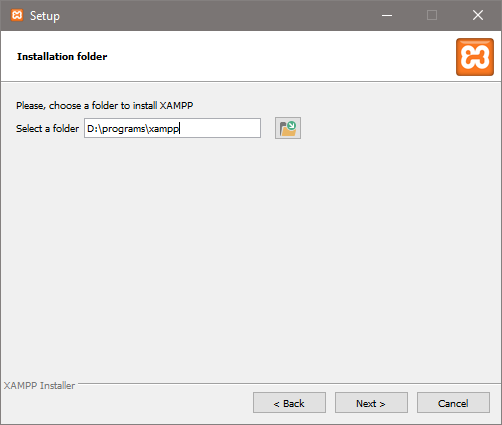
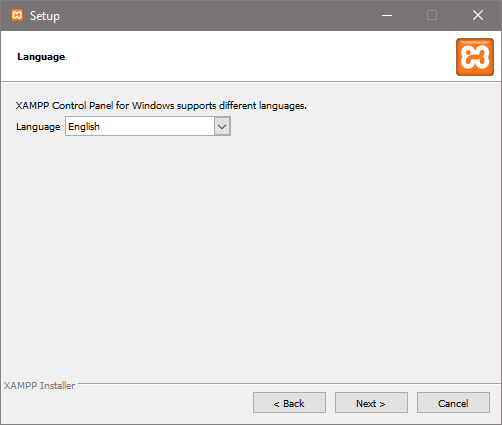
XAMPP instalation described

Changed region(s): [[0.0299, 0.2141, 0.6275, 0.3365], [0.0299, 0.1224, 0.2092, 0.1529]]

diff --git a/src/components/tools/xampp/content/Instalation.tsx b/src/components/tools/xampp/content/Instalation.tsx
@@ -1,0 +1,88 @@
+import Presentation from "../../../utils/presentation/Presentation";
+import Title from "../../../utils/title/Title";
+
+function Instalation() {
+  const slides = [
+    {
+      imagePath: "/xampp/instalation/1.png",
+      description: "1. Podemos ignorar este mensaje, de momento, no es algo que nos preocupe."
+    },
+    {
+      imagePath: "/xampp/instalation/2.png",
+      description: "2. Siguiente."
+    },
+    {
+      imagePath: "/xampp/instalation/3.png",
+      description: "3. No es necesario tener todo seleccionado, solo necesitas el combo AMPP:",
+      note: "Apache Mysql Php Phpmyadmin"
+    },
+    {
+      imagePath: "/xampp/instalation/4.png",
+      description: "4. Puedes instalar XAMPP en la ruta que desees.",
+      note: "no olvides dónde lo estás instalando"
+    },
+    {
+      imagePath: "/xampp/instalation/5.png",
+      description: "5. Elige tu idioma de preferencia."
+    },
+    {
+      imagePath: "/xampp/instalation/6.png",
+      description: "6. Desmarca la opción para que no te rediriga a la documentación."
+    },
+    {
+      imagePath: "/xampp/instalation/7.png",
+      description: "7. Pregúntate si realmente quieres instalar XAMPP."
+    },
+    {
+      imagePath: "/xampp/instalation/8.png",
+      description: "8. No te muevas, la instalación no dura mucho."
+    },
+    {
+      imagePath: "/xampp/instalation/9.png",
+      description: "9. Asegurate de tener marcada esta opción, luego Finish."
+    },
+    {
+      imagePath: "/xampp/instalation/10.png",
+      description: "10. Damos click a los botones Start, de Apache y de MySQL."
+    },
+    {
+      imagePath: "/xampp/instalation/11.png",
+      description: "11. Deben colorearse de esta forma:",
+      note: "Aún no tenemos la sección de problemas, si tienes alguno, por favor contáctanos por discord. (link en el pié de la página)"
+    },
+    {
+      imagePath: "/xampp/instalation/12.png",
+      description: "12. Damos click en el boton Admin de Apache."
+    },
+    {
+      imagePath: "/xampp/instalation/13.png",
+      description: "13. Debe abrirse esta página en el navegador:",
+      note: "Aún no tenemos la sección de problemas, si tienes alguno, por favor contáctanos por discord. (link en el pié de la página)"
+    },
+    {
+      imagePath: "/xampp/instalation/14.png",
+      description: "14. Damos click en el boton Admin de MySQL."
+    },
+    {
+      imagePath: "/xampp/instalation/15.png",
+      description: "15. Debe abrirse esta página en el navegador:",
+      note: "Aún no tenemos la sección de problemas, si tienes alguno, por favor contáctanos por discord. (link en el pié de la página)"
+    },
+    {
+      imagePath: "/xampp/instalation/15.png",
+      description: "Listo!",
+      note: ":)"
+    },
+  ];
+  return (
+    <div className="container">
+      <Title title="Instalación" />
+      <p>Pasos para instalar xampp:</p>
+      <div className="col-8 mx-auto">
+        <Presentation slides={slides} />
+      </div>
+    </div>
+  );
+}
+
+export default Instalation;

diff --git a/src/components/utils/presentation/Presentation.tsx b/src/components/utils/presentation/Presentation.tsx
@@ -1,0 +1,74 @@
+function Presentation(props: any) {
+  const slides: [] = props.slides;
+  const images: any = [];
+  slides.forEach((slide: any, i: number) => {
+    images.push(
+      <div
+        key={i}
+        className={`carousel-item px-5 ${i === 0 ? "active" : ""}`}
+        data-bs-interval="900000"
+      >
+        <h5 className="col-10 text-start me-auto">
+          {slide.description}
+        </h5>
+        <h6 className="col-10 text-end ms-auto">
+          <small>
+            {slide.note}
+          </small>
+        </h6>
+        <img
+          src={slide.imagePath}
+          className="d-block w-100"
+          alt="..."
+          height="75%"
+        />
+        <h5 className="text-center">
+          <small>
+            <a
+              href={slide.imagePath}
+              target="_blank"
+              rel="noreferrer"
+            >
+              <small className="badge rounded-pill bg-light text-dark border border-dark">ver</small>
+            </a>
+          </small>
+        </h5>
+      </div>
+    );
+  });
+  return (
+    <div
+      id="carouselExampleDark"
+      className="carousel carousel-dark slide carousel-fade"
+      data-interval="false"
+    >
+      <div className="carousel-inner">{images}</div>
+      <button
+        className="carousel-control-prev"
+        type="button"
+        data-bs-target="#carouselExampleDark"
+        data-bs-slide="prev"
+      >
+        <span
+          className="carousel-control-prev-icon"
+          aria-hidden="true"
+        ></span>
+        <span className="visually-hidden">Previous</span>
+      </button>
+      <button
+        className="carousel-control-next"
+        type="button"
+        data-bs-target="#carouselExampleDark"
+        data-bs-slide="next"
+      >
+        <span
+          className="carousel-control-next-icon"
+          aria-hidden="true"
+        ></span>
+        <span className="visually-hidden">Next</span>
+      </button>
+    </div>
+  );
+}
+
+export default Presentation;

diff --git a/src/components/tools/composer/content/Instalation.tsx b/src/components/tools/composer/content/Instalation.tsx
@@ -1,0 +1,54 @@
+import Presentation from "../../../utils/presentation/Presentation";
+import Title from "../../../utils/title/Title";
+
+function Instalation() {
+  const slides = [
+    {
+      imagePath: "/composer/instalation/1.png",
+      description: "1"
+    },
+    {
+      imagePath: "/composer/instalation/2.png",
+      description: "2"
+    },
+    {
+      imagePath: "/composer/instalation/3.png",
+      description: "3"
+    },
+    {
+      imagePath: "/composer/instalation/4.png",
+      description: "4"
+    },
+    {
+      imagePath: "/composer/instalation/5.png",
+      description: "5"
+    },
+    {
+      imagePath: "/composer/instalation/6.png",
+      description: "6"
+    },
+    {
+      imagePath: "/composer/instalation/7.png",
+      description: "7"
+    },
+    {
+      imagePath: "/composer/instalation/8.png",
+      description: "8"
+    },
+    {
+      imagePath: "/composer/instalation/9.png",
+      description: "9"
+    },
+  ];
+  return (
+    <div className="container">
+      <Title title="Instalación" />
+      <p>Pasos para instalar composer:</p>
+      <div className="col-7 mx-auto">
+        <Presentation slides={slides} />
+      </div>
+    </div>
+  );
+}
+
+export default Instalation;

diff --git a/src/components/tools/composer/content/ComposerContent.tsx b/src/components/tools/composer/content/ComposerContent.tsx
@@ -1,4 +1,5 @@
 import NotFound from "../../../utils/not-found/NotFound";
+import Instalation from "./Instalation";
 import Requirements from "./Requirements";
 import WhatIs from "./WhatIs";
 
@@ -7,6 +8,8 @@ function ComposerContent(props: any) {
   switch (content) {
     case "requisitos":
       return <Requirements />;
+    case "instalacion":
+      return <Instalation />;
     case "":
       return <WhatIs />;
     default:

diff --git a/src/components/App.tsx b/src/components/App.tsx
@@ -1,7 +1,7 @@
 import Navbar from "./utils/navbar/Navbar";
 import Home from "./home/Home";
 import Web from "./web/Web";
-import Tool from "./tool/Tool";
+import Tool from "./tools/Tools";
 import NotFound from "./utils/not-found/NotFound";
 import {
   BrowserRouter as Router,

diff --git a/src/components/tools/composer/Composer.tsx b/src/components/tools/composer/Composer.tsx
@@ -15,6 +15,11 @@ function Composer(props: any) {
       submenu: [],
     },
     {
+      name: "Instalación",
+      href: "/instalacion",
+      submenu: [],
+    },
+    {
       name: "Configuración",
       href: "/configuracion",
       submenu: [],
